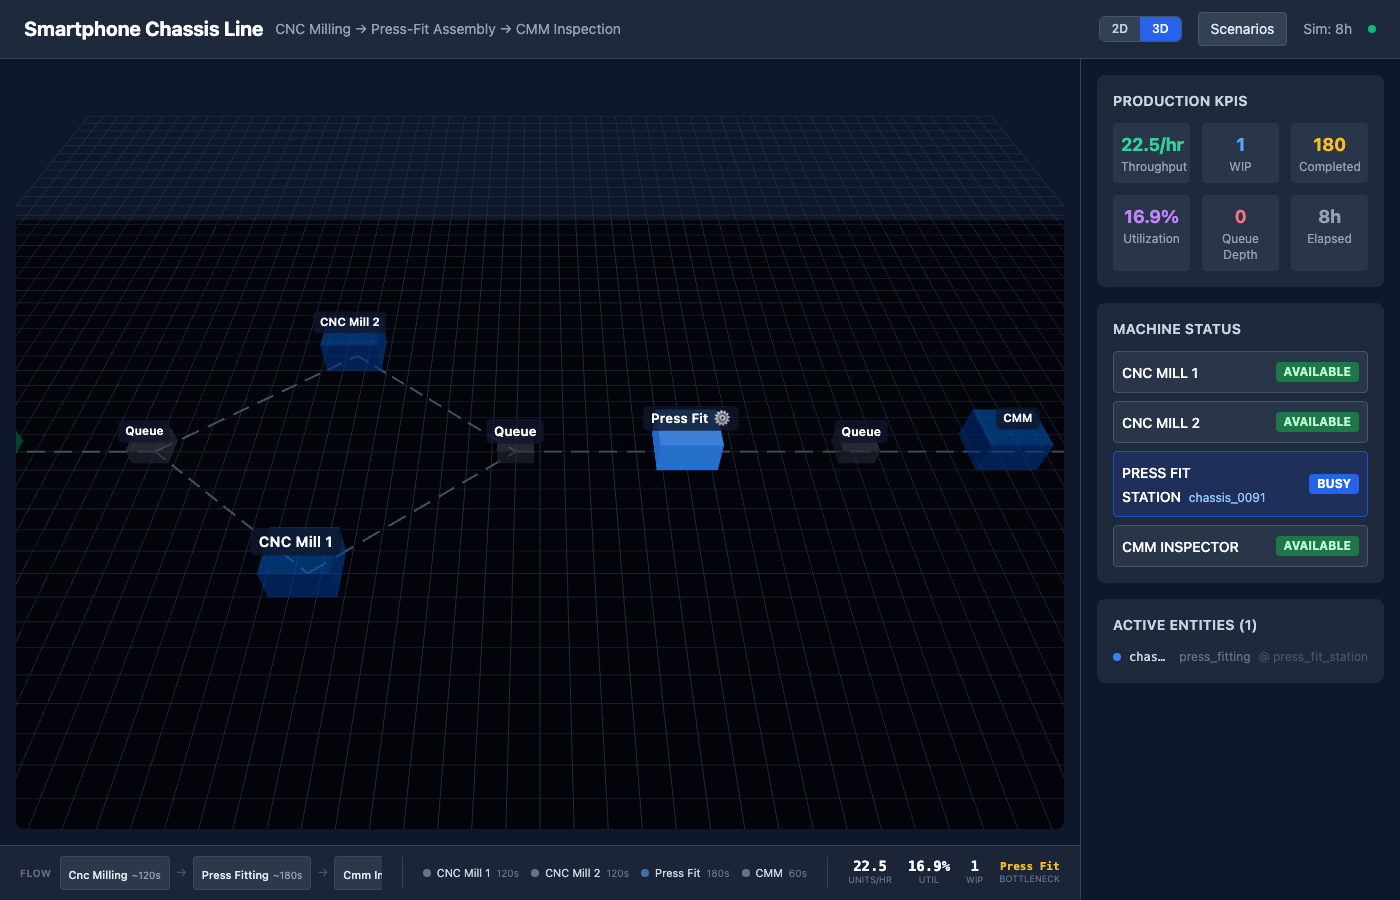
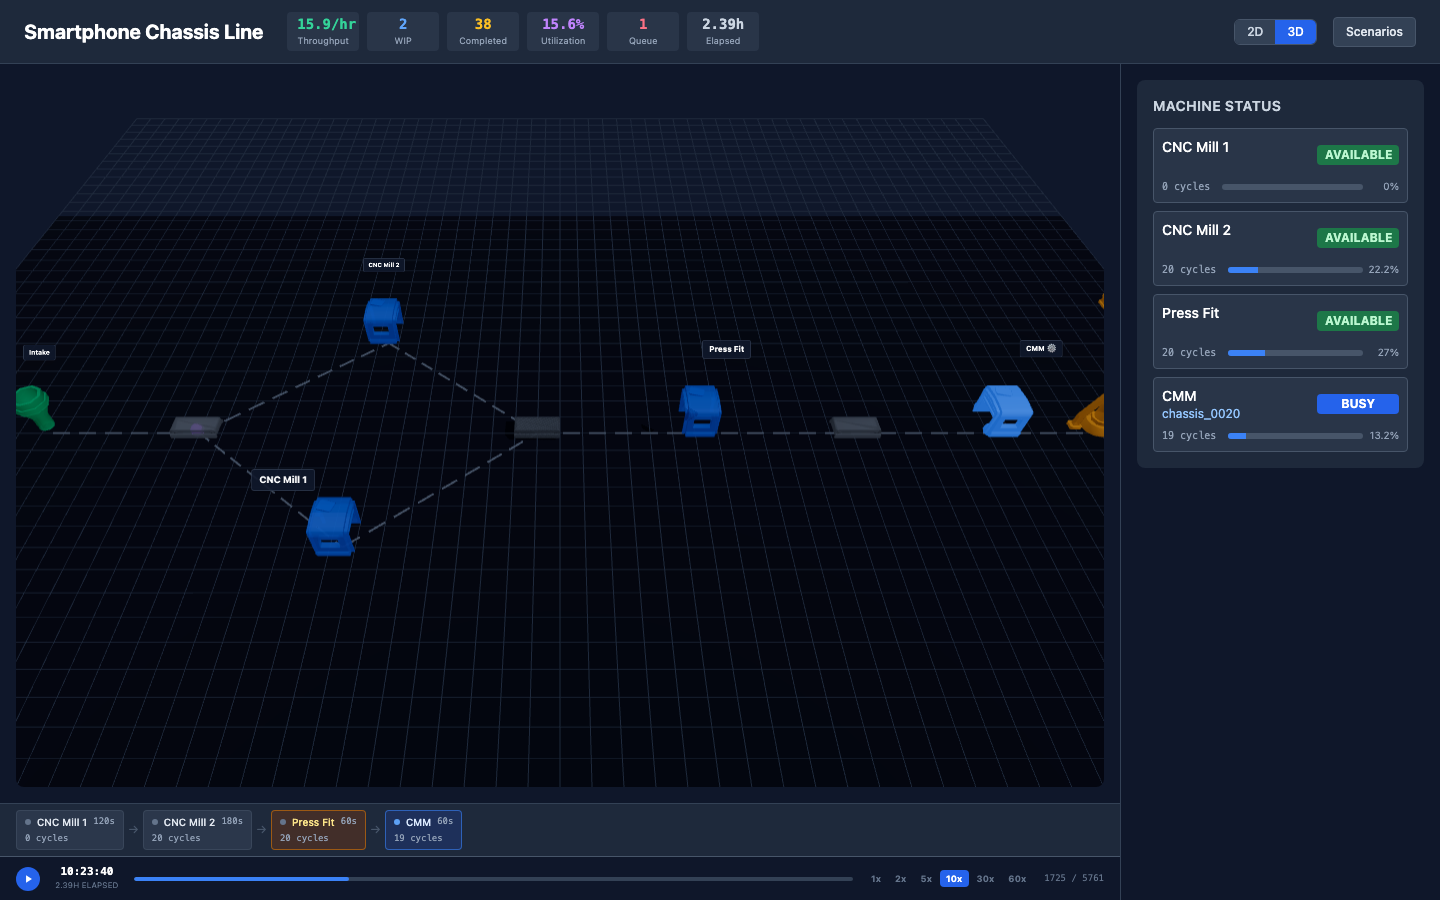
docs: update README screenshots and add migration backlog
Retake all dashboard screenshots to reflect current UI: machine detail
panel, scenario picker, process flow chips, live KPIs. Remove obsolete
what-if editor/slider screenshots. Add Databricks App migration backlog.

diff --git a/tasks/backlog_migrate_to_databricks_app.md b/tasks/backlog_migrate_to_databricks_app.md
@@ -1,0 +1,217 @@
+# Migrate Industrial Digital Twin to Databricks App with Lakebase
+
+## Context
+
+The local application (FastAPI + Vite/React) needs to become a Databricks App deployed to
+https://fevm-serverless-stable-3n0ihb.cloud.databricks.com/. The persistence layer migrates from local JSON files to Lakebase
+(PostgreSQL autoscale) for what-ifs, reports, and simulation ticks. Static scenario configs live in a UC Volume. A build number
+and Lakebase health indicator are added to the UI.
+
+## Architecture Decisions
+
+- Lakebase: New autoscale project industrial-digital-twin with a production branch
+- UC Catalog/Schema: serverless_stable_3n0ihb_catalog.industrial_digital_twin
+- UC Volume: serverless_stable_3n0ihb_catalog.industrial_digital_twin.raw_data — holds YAML configs
+- App name: industrial-digital-twin
+- Reports: stored as JSONB in Lakebase reports table; markdown artifacts in UC Volume
+- Frontend build: built locally, dist included in workspace upload
+
+## Database Schema (Lakebase PostgreSQL)
+
+```sql
+CREATE TABLE scenarios (
+    id TEXT PRIMARY KEY,
+    name TEXT NOT NULL,
+    description TEXT DEFAULT '',
+    config_yaml TEXT NOT NULL,
+    created_at TIMESTAMPTZ DEFAULT NOW()
+);
+
+CREATE TABLE whatifs (
+    id SERIAL PRIMARY KEY,
+    scenario_id TEXT NOT NULL REFERENCES scenarios(id),
+    slug TEXT NOT NULL,
+    name TEXT NOT NULL,
+    overrides JSONB NOT NULL DEFAULT '{}',
+    saved_at TIMESTAMPTZ DEFAULT NOW(),
+    UNIQUE(scenario_id, slug)
+);
+
+CREATE TABLE reports (
+    id SERIAL PRIMARY KEY,
+    scenario_id TEXT NOT NULL REFERENCES scenarios(id),
+    slug TEXT NOT NULL,
+    name TEXT NOT NULL,
+    report JSONB NOT NULL,
+    saved_at TIMESTAMPTZ DEFAULT NOW(),
+    UNIQUE(scenario_id, slug)
+);
+
+CREATE TABLE simulation_ticks (
+    id BIGSERIAL PRIMARY KEY,
+    scenario_id TEXT NOT NULL,
+    whatif_name TEXT,
+    tick_index INT NOT NULL,
+    sim_time TEXT NOT NULL,
+    elapsed_s FLOAT NOT NULL,
+    entities JSONB NOT NULL,
+    resources JSONB NOT NULL,
+    metrics JSONB NOT NULL,
+    computed_at TIMESTAMPTZ DEFAULT NOW()
+);
+CREATE INDEX idx_ticks_scenario ON simulation_ticks(scenario_id, whatif_name, tick_index);
+```
+
+## Phase 1: Infrastructure Setup (MCP tools)
+
+| #   | Task                                                                      |
+|-----|---------------------------------------------------------------------------|
+| 1.1 | Create UC schema industrial_digital_twin in serverless_stable_3n0ihb_catalog |
+| 1.2 | Create UC managed volume raw_data                                         |
+| 1.3 | Upload configs/*.yaml to /Volumes/.../raw_data/configs/                   |
+| 1.4 | Create Lakebase autoscale project industrial-digital-twin                 |
+| 1.5 | Create production branch with endpoint                                    |
+| 1.6 | Connect to Lakebase and run DDL to create tables                          |
+| 1.7 | Run script to populate scenarios table from YAML configs                  |
+
+## Phase 2: Backend — New Lakebase Service
+
+New: `app/backend/services/__init__.py` (empty)
+
+New: `app/backend/services/lakebase_service.py`
+
+Adapted from airport-twin pattern
+(`/Users/laurent.prat/Documents/lpdev/databricks_airport_digital_twin/app/backend/services/lakebase_service.py`):
+- LakebaseService class with psycopg2 ThreadedConnectionPool
+- OAuth via `databricks.sdk.WorkspaceClient().postgres.generate_database_credential()`
+- Token caching with 45min refresh
+- Connection pool: min=2, max=10, sslmode=require
+- Methods:
+  - `health_check() -> dict` — returns {connected, latency_ms, host}
+  - `ensure_tables()` — idempotent DDL
+  - `list_scenarios() -> list[dict]`
+  - `get_scenario_config(id) -> str | None` — returns raw YAML
+  - `save_whatif(scenario_id, slug, name, overrides) -> bool`
+  - `list_whatifs(scenario_id) -> list[dict]`
+  - `load_whatif(scenario_id, slug) -> dict | None`
+  - `save_report(scenario_id, slug, name, report) -> bool`
+  - `list_reports(scenario_id) -> list[dict]`
+  - `load_report(scenario_id, slug) -> dict | None`
+  - `check_report_exists(scenario_id, slug) -> bool`
+  - `save_simulation_ticks(scenario_id, whatif_name, frames) -> int`
+  - `get_simulation_ticks(scenario_id, whatif_name) -> list[dict]`
+- `get_lakebase_service()` singleton factory
+- Env vars: LAKEBASE_HOST, LAKEBASE_PORT, LAKEBASE_DATABASE, LAKEBASE_SCHEMA, LAKEBASE_ENDPOINT_NAME, LAKEBASE_USE_OAUTH
+
+## Phase 3: Backend — Modify app/backend/main.py
+
+- Add BUILD_NUMBER file loading at module level (same pattern as airport twin)
+- Add `GET /health` — returns {status, lakebase: {connected, latency_ms}, build_number}
+- Add `GET /api/version` — returns {build_number, git_commit}
+- Detect Lakebase mode: `USE_LAKEBASE = bool(os.getenv("LAKEBASE_HOST"))`
+- When USE_LAKEBASE:
+  - CONFIGS_DIR reads from UC Volume path (env SIM_CONFIGS_DIR)
+  - What-if save/list/load → delegate to LakebaseService
+  - Report save/list/load/check → delegate to LakebaseService
+  - After `_precompute_simulation()` → store frames in simulation_ticks
+  - On `GET /api/simulation/frames` → read from simulation_ticks if not in memory
+- When NOT USE_LAKEBASE (local dev): keep existing file-based logic unchanged
+- All existing tests continue to pass (they don't set LAKEBASE_HOST)
+
+## Phase 4: Frontend Changes
+
+Modify: `app/frontend/src/App.tsx`
+- Import and render `<StatusBar />` in footer area
+
+New: `app/frontend/src/components/StatusBar/StatusBar.tsx`
+- On mount, fetch `GET /health`
+- Every 30s, refresh health
+- Displays: Build #XXX | green/red dot + "Lakebase" label
+- Positioned bottom-left of the screen, subtle styling
+
+## Phase 5: Deployment Config
+
+New: `app.yaml` (project root)
+
+```yaml
+command:
+  - "uvicorn"
+  - "app.backend.main:app"
+  - "--host"
+  - "0.0.0.0"
+  - "--port"
+  - "8000"
+  - "--log-level"
+  - "info"
+env:
+  - name: LAKEBASE_HOST
+    value: "<from-branch-endpoint>"
+  - name: LAKEBASE_PORT
+    value: "5432"
+  - name: LAKEBASE_DATABASE
+    value: "databricks_postgres"
+  - name: LAKEBASE_SCHEMA
+    value: "public"
+  - name: LAKEBASE_ENDPOINT_NAME
+    value: "projects/industrial-digital-twin/branches/production/endpoints/primary"
+  - name: LAKEBASE_USE_OAUTH
+    value: "true"
+  - name: SIM_CONFIGS_DIR
+    value: "/Volumes/serverless_stable_3n0ihb_catalog/industrial_digital_twin/raw_data/configs"
+```
+
+New: `requirements.txt` (project root)
+
+```
+fastapi==0.115.0
+uvicorn==0.32.0
+websockets==12.0
+pydantic==2.10.0
+pyyaml==6.0.2
+httpx==0.28.0
+psycopg2-binary==2.9.11
+databricks-sdk==0.102.0
+python-dotenv==1.2.2
+```
+
+New: `BUILD_NUMBER` — starts at 1
+
+## Phase 6: Build, Upload & Deploy
+
+1. Build frontend: `cd app/frontend && npm run build`
+2. Upload project to workspace: `/Workspace/Users/[email redacted]/industrial-digital-twin`
+3. Create app via manage_app with source_code_path
+4. Verify deployment succeeds
+
+## Phase 7: Data Loading
+
+New: `scripts/load_configs_to_lakebase.py`
+- Connect to Lakebase
+- Read YAML files from configs/ (or UC Volume)
+- Upsert into scenarios table
+- Run via execute_code serverless
+
+## Files Summary
+
+| File                                                | Action                                              |
+|-----------------------------------------------------|-----------------------------------------------------|
+| app.yaml                                            | CREATE                                              |
+| requirements.txt                                    | CREATE                                              |
+| BUILD_NUMBER                                        | CREATE                                              |
+| app/backend/services/__init__.py                    | CREATE                                              |
+| app/backend/services/lakebase_service.py            | CREATE                                              |
+| app/backend/main.py                                 | MODIFY                                              |
+| pyproject.toml                                      | MODIFY (add psycopg2-binary, databricks-sdk, python-dotenv) |
+| app/frontend/src/components/StatusBar/StatusBar.tsx | CREATE                                              |
+| app/frontend/src/App.tsx                            | MODIFY (add StatusBar)                              |
+| scripts/load_configs_to_lakebase.py                 | CREATE                                              |
+
+## Verification
+
+1. `uv run pytest tests/` — all 77 existing tests pass (file-based fallback)
+2. `cd app/frontend && npx tsc --noEmit && npm run build` — clean
+3. Lakebase tables created with data
+4. App deployed at https://industrial-digital-twin-*.aws.databricksapps.com
+5. UI shows build number + green Lakebase dot
+6. Simulation replay works E2E through Lakebase-stored ticks
+7. What-if and report CRUD persists to Lakebase

diff --git a/README.md b/README.md
@@ -84,13 +84,13 @@ flowchart TB
 
 ## Dashboard Views
 
-The React dashboard provides two synchronized visualization modes, toggled via the header button:
+The React dashboard provides two synchronized visualization modes, toggled via the header button. The header displays real-time KPIs (Throughput, WIP, Completed, Utilization, Queue, Elapsed) and a Lakebase connectivity indicator when deployed.
 
 ### 2D Floor Plan (SVG)
 
 ![2D View](docs/screenshots/2d-view.png)
 
-Top-down schematic view with color-coded machines, conveyor paths, and animated entity dots. Shows queue depths, machine busy/idle state, and process flow at a glance.
+Top-down schematic view with color-coded machines, conveyor paths, and animated entity dots. The right sidebar shows machine status cards with cycle counts and utilization bars. Process flow chips at the bottom display each station's cycle time and count, and are clickable for detailed metrics.
 
 ### 3D Factory View (React Three Fiber)
 
@@ -100,7 +100,21 @@ Interactive 3D perspective with orbit camera controls (drag to rotate, scroll to
 
 Both views share the same data feed and stay perfectly in sync when switching.
 
+### Machine Detail Panel
+
+![Machine Detail](docs/screenshots/machine-detail.png)
+
+Click any machine (from the sidebar cards or process flow chips) to open a detail panel showing per-machine metrics: cycle count, queue depth, utilization bar (busy/idle/down breakdown), failure count, and total downtime.
+
+### Scenario Panel
+
+![Scenario Panel](docs/screenshots/scenario-panel.png)
+
+The unified scenario panel combines scenario selection, what-if configuration, and reporting in one place. A dropdown picker at the top lets you switch between scenarios. The What-Ifs tab shows saved deviation configurations with checkboxes for batch comparison. The Report tab runs KPI comparisons (baseline vs what-ifs) with save, print, and re-run actions.
+
 ### Playback Bar (Time Travel)
+
+![Playback Playing](docs/screenshots/playbar-playing.png)
 
 The simulation is **pre-computed on startup** — the entire run (default 8 hours of simulated time) is calculated server-side in seconds and delivered as a frame array to the frontend. This enables full time-travel capabilities:
 
@@ -179,13 +193,7 @@ The What-If system allows interactive exploration of equipment deviations — mo
 
 ### What-If Editor
 
-![What-If Editor](docs/screenshots/whatif-editor.png)
-
-The editor panel opens on the right side of the dashboard. Each machine gets its own card with deviation sliders and quick-apply presets.
-
-![What-If Sliders](docs/screenshots/whatif-sliders.png)
-
-Per-machine deviation sliders with preset buttons (Nominal, Aging, Quality Issue, Erratic). Modified parameters highlight in amber.
+The editor opens inside the Scenario Panel's What-Ifs tab. Click "+ New What-If" to create a deviation configuration, or "Edit" on an existing one. Each machine gets sliders for cycle time, failure rate, variability, and more. Quick-apply presets (Nominal, Aging, Quality Issue, Erratic) let you model common scenarios with one click. Modified parameters highlight in amber.
 
 ### How It Works
 